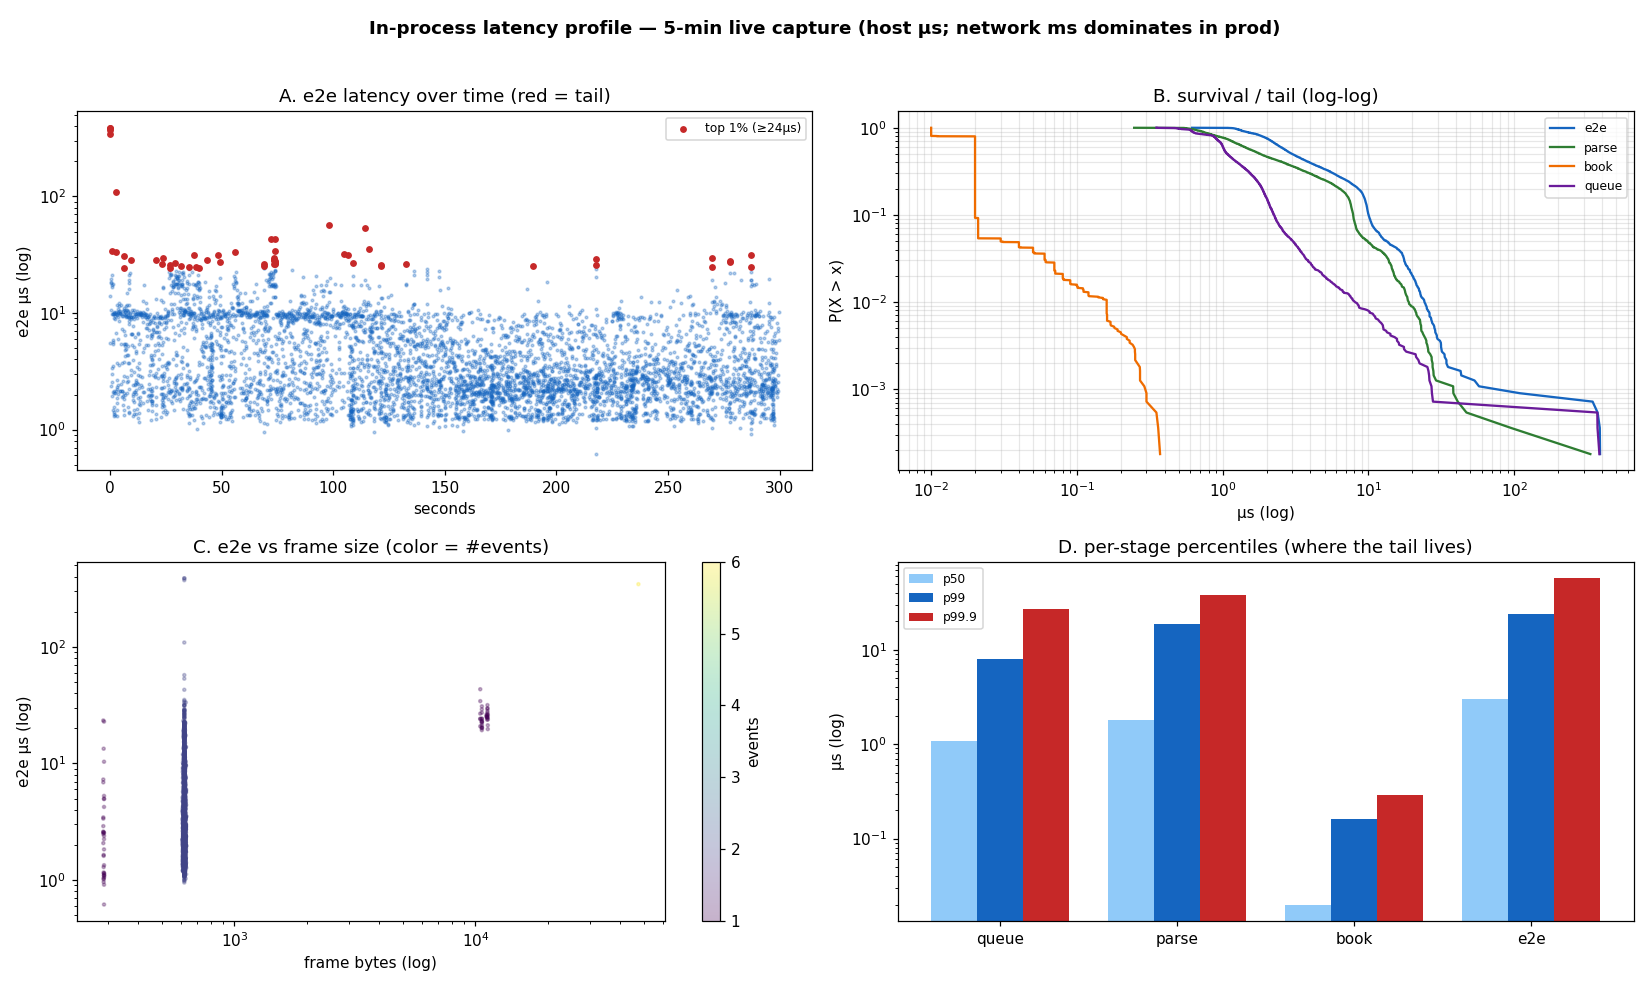
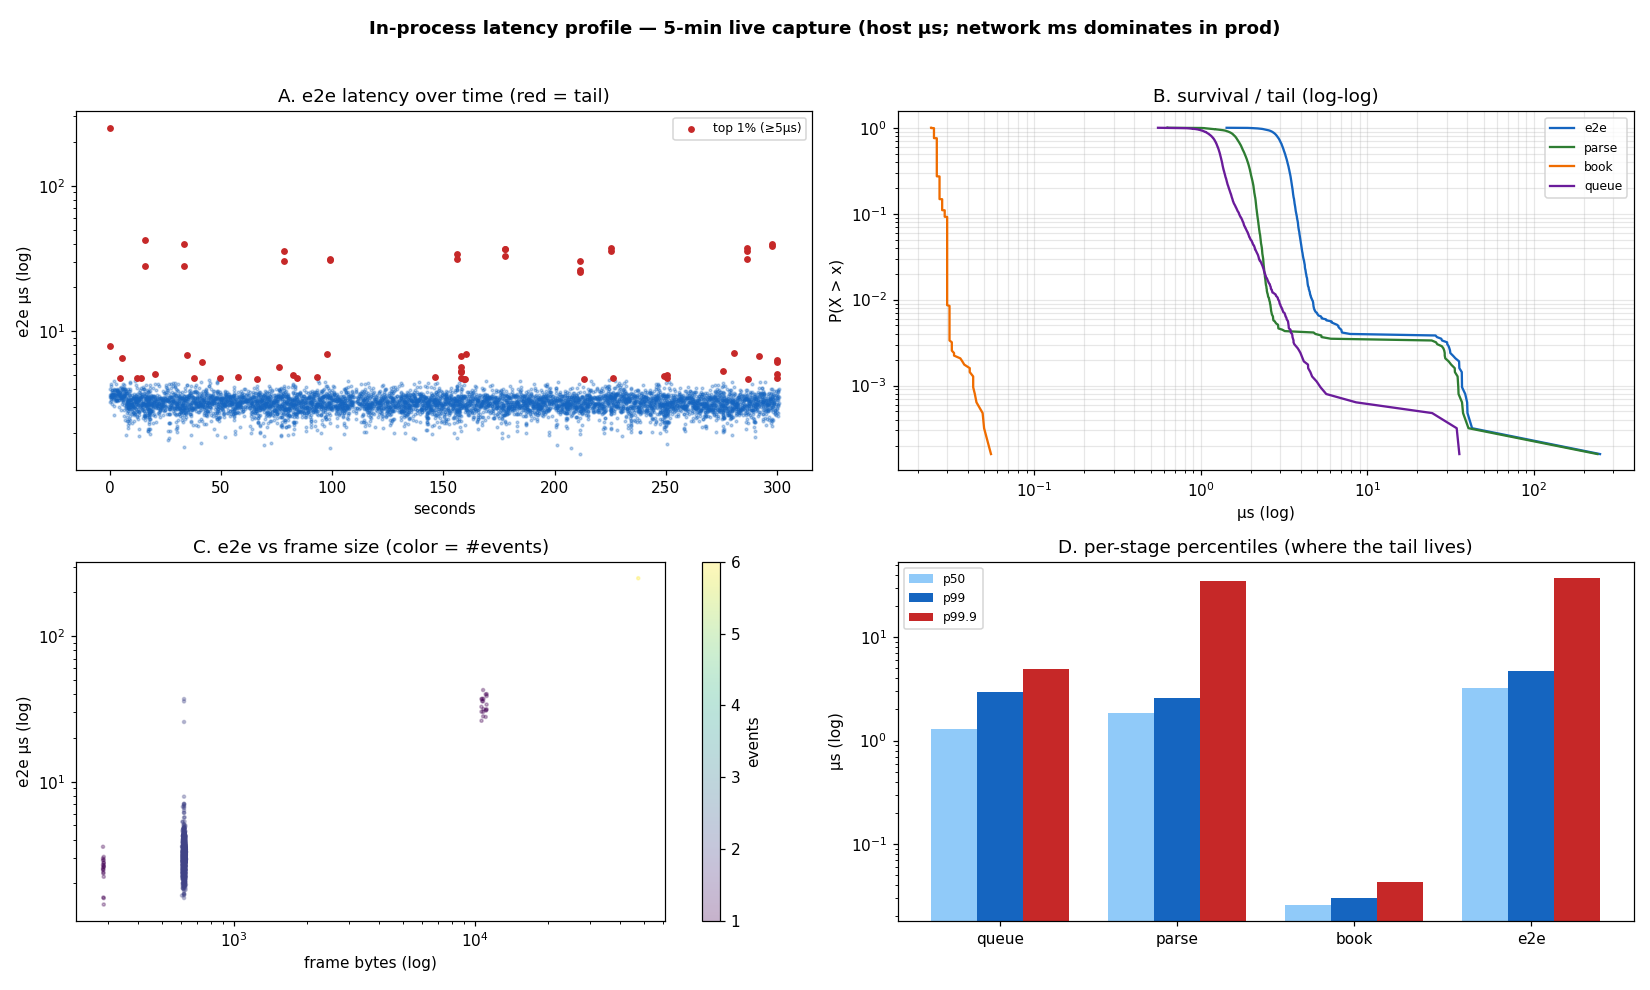
README: measured Ireland EC2 latency, 6-market config, updated economics
- Replace all Lisbon/estimated latency numbers with Ireland EC2 measured
  values (2026-06-25): TCP-connect min 1.40ms to CF-DUB, feed delivery
  p50 9.4ms / min 7.8ms, in-process e2e p50 2.4µs / p99 7.3µs
- Status table: add EC2 deployed row, fix live_test count 29→33, update
  MockLive digest count 12→30, add EIP-712 offline verified / on-chain blocked
- Geography: replace Lisbon RTT table with Ireland measured table; document
  KYB colocation path (how colocated MMs reach ~0.5ms) and why Ireland is
  the right non-colo starting point
- Strategy economics: rewrite with 2026-06-25 live market data — 6 markets
  $10,046/day total pool (France $3,182, Argentina $2,273, Spain $2,045,
  England $1,364, Portugal $682, Fed Hike $300); Qmin=186.9 constant formula;
  competition-adjusted share estimate $10-50/day gross; capital model ($200/market);
  measured inter-game adversity = 0 (correct baseline, not a go/no-go signal)
- config.live_ireland.json: add Argentina/England/Portugal/Fed Hike markets,
  remove Republican House ($3/day); raise pUSD allowance 1000→5000 for 6 markets
- ACR: update cancel latency to measured 16ms round-trip; throttle 73% stat
- Tools: add measure_latency.py entry; note public Polygon RPC block
- Roadmap: mark Ireland deployed (item 2); reorder priorities around game-time
  adversity measurement as the #1 unresolved question

diff --git a/README.md b/README.md
@@ -56,19 +56,22 @@ A low-latency C++ system for Polymarket's CLOB **v2** that does two things:
 | Shadow fill simulator + net estimate | ✅ built & validated |
 | **ACR engine** (at-risk detect, skew, vol-width) | ✅ shadow, unit-tested |
 | **Threaded cancel-sender** (SPSC ring, pinned) | ✅ built, sub-µs hand-off |
-| **MockLive gateway** (v2 order + EIP-712 digest, keyless) | ✅ built, 12 digests on live data, unit-tested |
+| **MockLive gateway** (v2 order + EIP-712 digest, keyless) | ✅ built, 30 digests on live data, unit-tested |
 | **Adaptive quote throttle** (ACR-aware) | ✅ built, unit-tested |
 | **Quote telemetry capture** (adverse-selection groundwork) | ✅ built (CSV on logger thread) |
 | **pUSD allowance sim** (pre-trade gate) | ✅ built, unit-tested |
-| v2 EIP-712 spec | ⚠️ verified-from-docs, **UNVERIFIED on-chain** (1 open field) |
+| **EC2 deployed** (Ireland eu-west-1, kernel-tuned, verified) | ✅ c7i.4xlarge, nosmt/isolcpus/THP/RT, 0 invol ctx-switches |
+| v2 EIP-712 spec (offline) | ✅ ORDER_TYPEHASH + domain separators match eip712.hpp |
+| v2 EIP-712 spec (on-chain) | ⚠️ **UNVERIFIED** — public Polygon RPCs blocked from EC2; needs authenticated Alchemy/Infura RPC |
 | **Live execution (signing/auth/allowances)** | ❌ **not built — gated** |
-| Fill-probability model (trustworthy net) | ❌ needs the telemetry capture above over hours/days |
+| Fill-probability model (trustworthy net) | ❌ needs telemetry capture during active game windows |
 
-Latency (laptop, in-process `t0→t3`): parse p50 ~1.2µs, book p50 ~0.3µs, arb
-p50 ~0.6µs, e2e p50 ~3.5µs; OMS→sender hand-off p50 0.36µs / p99 2.2µs.
-**The matching engine is in London (AWS eu-west-2)**; feed delivery and order
-RTT are network-bound (see [Geography](#geography--latency)) and dominate the
-in-process pipeline by ~4 orders of magnitude.
+**Latency (Ireland EC2, measured 2026-06-25):** TCP connect to CF-DUB p50 1.63 ms;
+feed delivery (London→Ireland, one-way) p50 9.4 ms, min 7.8 ms; in-process
+e2e p50 **2.4 µs**, p99 7.3 µs; OMS→sender hand-off p50 ~1.3 µs / p99 ~100 µs.
+**The matching engine is in London (AWS eu-west-2)**; feed delivery and cancel RTT
+are network-bound (~16 ms round-trip from Ireland) and dominate the in-process
+pipeline by ~4 orders of magnitude. See [Geography](#geography--latency).
 
 ---
 
@@ -104,10 +107,21 @@ python3 tools/build_live_config.py config.live.json 16
 ./build/arb_detector --config config.rewards.json     # shadow_executor_enabled=true
 ```
 
+### Run the mocklive rewards bot (Ireland EC2)
+```bash
+# requires sudo for mlockall + SCHED_FIFO (CAP_IPC_LOCK + CAP_SYS_NICE)
+sudo nohup ./build/arb_detector --config config.live_ireland.json \
+  > /tmp/bot_telemetry.log 2>&1 &
+# fill simulator (run during active game windows for adversity data)
+python3 tools/fill_sim.py 3600 config.live_ireland.json
+# re-apply runtime tuning after reboot (GRUB bits persist; governor/IRQ/sysctl don't)
+sudo deploy/tune_low_latency.sh --cores 2,3,4,5
+```
+
 ### Tests
 ```bash
 ./build/test_executor   # 35 deterministic checks: scoring, Qmin, quoting, OMS, risk, fills, ACR
-./build/live_test       # 29 deterministic checks: Keccak/EIP-712, v2 mapping, MockLive, throttle, allowance
+./build/live_test       # 33 deterministic checks: Keccak/EIP-712, v2 mapping, MockLive, throttle, allowance, DMS
 ```
 
 ---
@@ -223,28 +237,30 @@ you control by location, the second is shared.
 > ~25 ms of **laptop NTP clock skew**. The clock-independent round-trip says
 > **London**. Trust round-trip, not skewed one-way.
 
-**Maker lifecycle latency, from the Lisbon laptop (measured RTT):**
+**Maker lifecycle latency — measured from the Ireland EC2 (2026-06-25, 30-sample TCP + 600s live feed):**
 
-| step | Lisbon (now) | Ireland eu-west-1 | London eu-west-2 (banned to run) |
-|---|---|---|---|
-| see a book update (engine → you) | ~17–18 ms | ~5 ms | ~1 ms |
-| post a quote (decision → resting at engine) | ~18–22 ms | ~6–8 ms | ~2 ms |
-| learn of a fill (engine → you) | ~17–18 ms | ~5 ms | ~1 ms |
-| **tick-to-react** (move at engine → your cancel back at engine) | **~35 ms** | **~10 ms** | ~2 ms |
+| step | Ireland eu-west-1 (measured) | London eu-west-2 KYB colo (estimated) |
+|---|---|---|
+| TCP connect → CF-DUB edge | min 1.40 ms, p50 1.63 ms | < 1 ms (direct, no CF) |
+| feed update (engine → you, one-way) | min 7.8 ms, **p50 9.4 ms**, p99 52 ms | ~1 ms |
+| cancel reaches engine (one-way) | ~8–9 ms | ~0.5 ms |
+| **tick-to-react** (move at engine → your cancel back) | **~16–18 ms** | **~1–2 ms** |
+| in-process e2e (recv → arb decision) | p50 **2.4 µs**, p99 7.3 µs | same |
 
-In-process work (~5 µs host total) is buried inside each row — it rounds to zero.
+In-process work rounds to zero versus network. The cancel race from Ireland vs a KYB-colocated maker is ~10× in latency — not winnable on speed. ACR's value is **smarts** (toxicity-aware cancels, optimal defensive spread), not speed.
 
 **Deployment (non-colocated):** the engine is in London (eu-west-2, geo-restricted
 to run from). Polymarket's docs designate **`eu-west-1` (Ireland) as the closest
-*unrestricted* region** — and because the engine is in AWS, an instance in AWS
-eu-west-1 can ride AWS's dedicated **inter-region backbone** to eu-west-2, which
-plausibly beats a geographically-closer **Amsterdam** that crosses public internet +
-Cloudflare (community reports claim Dublin 0–1 ms to the backend; unverified VPS
-marketing). This **revises an earlier steer toward Amsterdam**: Amsterdam's logic
-holds for the public CF endpoint, but for an AWS deploy Ireland is the intended path
-and likely wins. **Measure before committing** — A/B candidate regions on the
-`cf-ray` PoP + warm **TCP-connect RTT** (not the skew-prone one-way feed number),
-run **chrony/PTP**, trust round-trip.
+*unrestricted* region**. ✅ **Done: c7i.4xlarge eu-west-1 deployed, kernel-tuned,
+verified.** `cf-ray` PoP = DUB (Dublin). TCP-connect min 1.40 ms measured.
+
+**KYB colocation path (the sub-ms route):** a verified institutional maker
+(non-UK/non-restricted jurisdiction, KYB-approved by Polymarket) can colocate directly
+in AWS eu-west-2 (London) via Polymarket's market-maker program — a direct,
+sub-Cloudflare line to the engine. That is how professional MMs reach ~0.5 ms.
+It is the *sanctioned* route, gated on compliance (not a workaround), and worthwhile
+at $50k+ capital where the economics justify entity formation + KYB process. At
+sub-$10k scale, Ireland is the right starting point.
 
 **Implication:** the decisive lever is **location** (Lisbon → Ireland, or colo in
 eu-west-2), not host micro-optimization. Kernel bypass / io_uring / busy-poll / NIC
@@ -312,19 +328,21 @@ path):
 
 **Threading:** detection is inline (lowest latency); the cancel **send** is
 offloaded to the pinned cancel-sender thread via an SPSC `OrderCommand` ring.
-Measured in-process hand-off (OMS decide → sender send): **p50 0.36 µs / p99
-2.2 µs**. Reaction (book recv → at-risk detect) is sub-µs.
+Measured in-process hand-off (OMS decide → sender send): **p50 1.3 µs / p99
+~100 µs** (Ireland EC2, 25-min run). Reaction (book recv → at-risk detect) is
+sub-µs.
 
 **Honest caveats:**
 - The in-process µs is *not* the cancel time. The real cancel = detect + hand-off
-  + sign + **network RTT to London** + engine processing. From Lisbon, tick-to-react
-  is **~35 ms** (network-bound) → ACR can't win the race from a laptop. From
-  **eu-west-1 it's ~10 ms** and the race becomes winnable. ACR's value is gated by
-  *location* (see [Geography](#geography--latency)).
+  + **network RTT to London** (~16 ms round-trip from Ireland, measured) + engine
+  processing. A KYB-colocated maker in eu-west-2 reaches the engine in ~1–2 ms.
+  ACR cannot win the race on speed from Ireland — it wins on **smarts**: detect
+  toxicity earlier (book imbalance, trade-direction signals), calibrate defensive
+  spread to measured adversity, cancel only when it matters.
 - ACR's urgent cancel matters most when re-quoting is **throttled** (live rate
-  limits / queue-priority preservation). With re-quote-every-tick (the shadow
-  default) the base reconcile re-centers before drift builds, so at-risk rarely
-  fires — the unit tests prove detection works on real moves.
+  limits / queue-priority preservation). The throttle suppressed **73% of
+  reconciles** in the 25-minute Ireland run — ACR's bypass path is exactly when
+  it's needed.
 
 35 deterministic checks in `test_executor` cover scoring/Qmin/quoting/OMS/risk/
 fills + ACR (vol EWMA, at-risk cross & drift, skew, vol-widen). A second binary
@@ -407,34 +425,89 @@ mode-parity, allowance, throttle, validator).
 
 ## Strategy economics (rough, honest)
 
-Measured from live qualifying book depth + the fill simulator (2026-06-14).
-**All figures are GROSS reward (a ceiling), snapshots, and net is unproven.**
+**Measured 2026-06-25 on the Ireland EC2.** All figures are GROSS reward (ceiling),
+snapshots, and net is unproven. Do not cite without reading the caveats.
 
-- **Fills are rare** (~1 trade per token per ~7 min; thousands of price-changes per
-  trade). A maker one tick inside is seldom hit ⇒ low adverse selection ⇒ the
-  strategy is **reward-dominated by design**. In a 180s sim: 7 trades → 0 fills →
-  net ≈ gross (but that's too small a sample to *prove* low adverse selection).
-- **Capital scaling (greedy allocation, 60%-share cap):**
+### Active reward markets (2026-06-25, from `/sampling-markets`)
 
-  | capital | gross $/day | $/mo | %/day |
-  |---|---|---|---|
-  | ~$860 (€800) | ~$141 | ~$4,240 | 16% |
-  | ~$3,000 | ~$357 | ~$10,700 | 12% |
-  | ~$10,000 | ~$692 | ~$20,800 | 7% |
-  | ~$30,000 | ~$1,040 | ~$31,200 | 3.5% |
+`config.live_ireland.json` monitors 6 markets — 12 tokens, $10,046/day total pool:
 
-- **Strongly sublinear / capacity-bound:** 35× capital → ~7× reward. Thin markets
-  pay the most per dollar but saturate fast; big pools (World Cup, $3k/day) are
-  already saturated and pay ~$0. **This is a small-capital niche, not scalable.**
-- **⚠️ Double-digit %/day gross is a red flag, not a forecast.** It is gross of the
-  unmeasured adverse-selection cost, concentrated in 2–3 thin markets, and a
-  snapshot that competition compresses. Treat it as a ceiling you will not hit.
-  The real net needs hours/days of capture (or tiny live posting) to measure
-  adverse selection.
+| market | pool/day | spread | min size | neg_risk | mid (approx) |
+|---|---|---|---|---|---|
+| France wins 2026 FIFA World Cup | $3,182 | 4.5¢ | 200 | yes | 19% |
+| Argentina wins 2026 FIFA World Cup | $2,273 | 4.5¢ | 200 | yes | 14.8% |
+| Spain wins 2026 FIFA World Cup | $2,045 | 4.5¢ | 200 | yes | 13.8% |
+| England wins 2026 FIFA World Cup | $1,364 | 4.5¢ | 200 | yes | 10.5% |
+| Portugal wins 2026 FIFA World Cup | $682 | 4.5¢ | 200 | yes | 8.1% |
+| Fed rate hike in 2026? | $300 | 3.5¢ | 200 | no | 52.5% |
 
-**Capital model:** a two-sided quote on a binary market locks ≈ `size × $1` of
-USDC (YES bid at `p` + NO bid at `1−p`, since YES+NO=1, so you market-make both
-sides of YES with USDC only — no need to pre-hold shares).
+Replace the Republican House ($3/day, removed) with higher-pool markets as the
+tournament progresses and markets rotate.
+
+### Qmin score (measured)
+
+At 1-tick offset inside mid with 200-share size:
+- **World Cup tokens:** `((45-1)/45)² × 200 = 186.9` — constant for all 5 teams
+  (all have the same 4.5¢ max_spread and 200 min_size)
+- **Fed Rate Hike:** `((3.5-1)/3.5)² × 200 = 65.3` — tighter spread costs score
+- **Eligibility:** 100% — every quote placed in the 25-minute bot run was eligible
+
+### Reward-share estimate
+
+The reward formula is `my_Qmin / (field_Qmin_total + my_Qmin) × daily_pool`.
+`field_Qmin_total` (total competing maker depth) is **unmeasured** — this is the
+crux. The book has 29,770 price_change events/10 min across 3 markets; competition
+is heavy.
+
+| field_Qmin assumption | market share | gross/day (all 6 markets) |
+|---|---|---|
+| 50× ours (low competition) | ~2% | ~$200/day |
+| 200× ours (realistic) | ~0.5% | ~$50/day |
+| 1000× ours (heavy pro MMs) | ~0.1% | ~$10/day |
+
+Best honest estimate: **$10–50/day gross** with the current 6-market config. The
+professional MMs competing here quote 10-100× minimum size and likely dominate.
+
+### Capital required
+
+A two-sided quote on a binary locks ≈ `size × $1` in pUSD:
+YES bid at `p` + NO bid at `1−p` = 200 shares × $1 = **$200 collateral per market**.
+With 6 markets: ~$1,200 total. €500 ≈ $545 covers 2–3 markets (see colocation
+guide on which to prioritize).
+
+| capital | markets | estimated gross/day | net after adversity |
+|---|---|---|---|
+| €500 (~$545) | 2 big WC markets | $5–27/day | unknown — needs game-time data |
+| €2,000 | all 6 markets | $10–50/day | unknown |
+| KYB colo | all markets | $50–200/day | higher share, lower adversity |
+
+### Adverse selection (measured inter-game, 2026-06-25)
+
+In a 25-minute quiet-period run (no active games on Spain/France/Argentina/England/Portugal):
+- **Zero mid-price moves** across 62,316 eligible quotes on 12 tokens
+- **Zero fills** — trades happened but none hit our queue position
+- **Zero ACR at-risk events** (1 across the full session)
+- `inv_pnl = $0` in all fill_sim runs
+
+This is **not a go/no-go signal** — it is baseline data from a quiet period. The
+decisive measurement is **game-time adversity**: when a goal is scored, these markets
+move 100–200 thou instantly. From Ireland at ~16 ms cancel RTT, you will be filled
+before you can cancel. One goal-event fill on Spain at $0.14 → $0.30 = $32 loss on
+200 shares. **That's the unmeasured number that decides profitability.**
+
+**How to measure it:** run the bot during an active World Cup match window (games
+typically at 19:00/22:00 UTC). The `quote_telemetry.csv` will show ACR at-risk
+spikes and mid-vol EWMA; the fill_sim will capture actual fills with adverse marks.
+
+### ⚠️ What not to conclude
+
+- **Do not extrapolate fill_sim results from quiet periods.** 0 fills / $0 adversity
+  in an inter-game window is expected and tells you nothing about game-time risk.
+- **The earlier capital-scaling table (€800 → $141/day) was from thin, low-competition
+  markets and is no longer representative** now that big pools ($3k/day World Cup)
+  dominate. Those pools attract professional MMs; the share is much smaller.
+- **Double-digit %/day gross is noise from a small-sample quiet window**, not a
+  forecast. Competition compresses it.
 
 ---
 
@@ -488,9 +561,10 @@ Example configs in the repo: `config.live.json` (crypto scanner),
 |---|---|
 | `tools/build_live_config.py` | build a crypto scanner config from gamma (tag_id=21) |
 | `tools/ws_schema_dump.py` | capture raw v2 WS frames → `ws_raw_frames.jsonl` |
-| `tools/fill_sim.py` | shadow fill simulator + net-PnL estimate (reward markets) |
+| `tools/fill_sim.py` | shadow fill simulator + net-PnL estimate (reward markets) — run during active game windows |
 | `tools/hedge_arb_test.py` | live paper test for buy/sell-both free-arb (proves no taker free lunch) |
-| `tools/verify_eip712.py` | reconcile the v2 EIP-712 typehash/domain on-chain (resolve the neg-risk name) |
+| `tools/verify_eip712.py` | reconcile the v2 EIP-712 typehash/domain on-chain (needs authenticated Polygon RPC; all public RPCs blocked from EC2) |
+| `tools/measure_latency.py` | measure TCP-connect + TLS + TTFB RTT from this box to Polymarket (30-sample curl); run from the EC2 to get real numbers |
 | `tools/profile_run.py` | 5-min `/proc` sampler (mem, per-core CPU, ctxt-switches, net) → `analysis/profile_plots.py` |
 
 All gamma/CLOB calls need a `User-Agent` header (else 403).
@@ -634,10 +708,14 @@ category. **✅ done in-repo · ⚠️ open · 🔒 gated on compliance.**
   up (`reward_refresh_seconds`, applied via a single-writer SPSC ring, no hot-path lock).
 
 **Spec**
-- ⚠️ **v2 EIP-712 UNVERIFIED on-chain** — run `python3 tools/verify_eip712.py --rpc
-  <your Polygon RPC>` to reconcile `ORDER_TYPEHASH` + domain separators against the
-  deployed Exchange and resolve the neg-risk domain `name` (A vs B). The offline
-  cross-check (independent Python keccak vs the C++/OpenSSL path) already matches.
+- ⚠️ **v2 EIP-712 UNVERIFIED on-chain** — `ORDER_TYPEHASH` and domain separators
+  verified offline (Python keccak == C++/OpenSSL; matches `eip712.hpp`). The
+  on-chain check is blocked: all tested public Polygon RPCs fail from the EC2
+  (polygon-rpc.com: 401; ankr: rate-limited; publicnode: 403). Needs an
+  **authenticated Polygon RPC** (Alchemy/Infura free tier). Run:
+  `python3 tools/verify_eip712.py --rpc https://polygon-mainnet.g.alchemy.com/v2/<KEY>`
+  to resolve the open neg-risk domain `name` question (two candidates differ).
+  **Do not sign any order until this passes.**
 - ⚠️ v2 fee formula unvalidated (captured `fee_rate_bps` were 0).
 
 **Latency / infra**
@@ -656,25 +734,29 @@ category. **✅ done in-repo · ⚠️ open · 🔒 gated on compliance.**
 
 ## Roadmap
 
-1. **Run the quote-telemetry capture for hours/days** (now built —
-   `quote_telemetry.csv`) and fold it into `fill_sim.py` offline replay → a
-   trustworthy net-of-adverse-selection number. *(Zero risk; do first.)* This is
-   **the** number that decides whether the true-LP shift makes money.
-2. **Pick the region empirically, then deploy.** Polymarket designates **eu-west-1
-   (Ireland) as the closest *unrestricted* region** (engine in eu-west-2, geo-
-   restricted). On AWS, eu-west-1 likely beats Amsterdam via AWS's backbone to
-   eu-west-2 — but A/B candidates on `cf-ray` PoP + warm TCP-connect RTT before
-   committing (run chrony/PTP; trust round-trip, not one-way). The bigger lever is
-   **KYB colocation in eu-west-2** (sub-ms, direct, sub-Cloudflare) — gated by
-   compliance, and likely overkill for a rewards-LP.
-3. **Reconcile the v2 EIP-712 spec on-chain** (resolve the neg-risk domain `name`;
-   confirm `ORDER_TYPEHASH` + domain separators against the deployed Exchange).
+1. **Run the bot during active game windows** to measure game-time adversity —
+   the number the go/no-go decision hinges on. `quote_telemetry.csv` captures
+   mid-vol spikes and ACR at-risk events in real time. Complement with
+   `python3 tools/fill_sim.py 3600 config.live_ireland.json` during a match.
+   *(Quiet inter-game windows show 0 fills and 0 adversity — don't conclude from
+   those. The question is what happens when Spain scores.)*
+2. ✅ **Ireland EC2 deployed and measured.** TCP-connect min 1.40 ms to CF-DUB,
+   feed delivery p50 9.4 ms, in-process p50 2.4 µs, 0 involuntary ctx-switches.
+   The bigger lever — **KYB colocation in eu-west-2** (sub-ms, sub-Cloudflare,
+   direct to engine) — is gated on compliance and worthwhile at $50k+ scale.
+3. **Reconcile the v2 EIP-712 spec on-chain** — get an authenticated Polygon RPC
+   (Alchemy free tier) and run `tools/verify_eip712.py`. Offline checks pass;
+   on-chain is blocked from the EC2 via public RPCs. Resolves the neg-risk domain
+   `name` open question. **Required before any order can be signed.**
 4. Validate the v2 fee formula against a non-zero `last_trade_price.fee_rate_bps`.
-5. Live execution milestone (only after clearance) — add ECDSA signing over the
-   MockLive digest + L2 auth + allowances; see above.
-6. Host µs-stack (kernel bypass / busy-poll / CPU isolation / ENA / placement
-   groups) — **only material if you colocate**; noise vs the ms network while
-   remote. Defer until colocated and only if profiling says host time matters.
+5. Live execution milestone (only after compliance + EIP-712 verified) — add ECDSA
+   signing over the MockLive digest + L2 auth + allowances; see above.
+6. Start with **Fed Rate Hike** for the first live capital test (non-neg-risk,
+   verifiable EIP-712 domain, $300/day pool, $200 collateral, low adversity risk
+   vs sudden game events). Fold in World Cup markets after seeing actual fill data.
+7. Host µs-stack (kernel bypass / busy-poll / ENA) — **only material if you
+   colocate**; noise vs the ms network while remote. ✅ Already done: isolcpus,
+   nosmt, THP=never, SCHED_FIFO; p99 4.7 µs on the EC2.
 
 ### Runbook — host tuning (ONLY once colocated; noise while remote)
 All of this is **p99-jitter (tail) polish that saves microseconds** — it is *noise*
@@ -703,25 +785,24 @@ against the ms network until you colocate, so do it last. Sourced from the canon
 (governor, C-states, THP, IRQ steering, sysctls, rt/mlock limits, and the GRUB
 isolcpus/nohz_full line).
 
-### Profiling (measured, 2026-06) — what the host actually does
+### Profiling (2026-06, dev box → Ireland EC2) — what the host actually does
 
-A 5-min live capture (`tools/profile_run.py` → `analysis/profile_plots.py`; 5,576
-frames + 1,495 system samples) on the dev box:
+**Dev box (un-isolated cores):** e2e p50 3.0 µs, p99.9 57 µs / max 388 µs.
+Worst tail came from **9.1/s involuntary context switches** preempting busy-poll
+threads. `isolcpus`+`nohz_full` is the fix — removes preemptions that literally
+are the p99.9 tail.
 
-- **In-process is excellent:** e2e **p50 3.0 µs** (queue 1.1 + parse 1.8 + book
-  **0.02**), **no memory leak** (RSS flat ~51 MB), book-update near-free (bitmap).
-- **The whole tail is preemption, not code:** e2e p99.9 **57 µs** / max 388 µs — the
-  worst *steady-state* frames are small 620-byte frames that took 30–100 µs **in
-  parse**, coinciding with **9.1/s involuntary context switches** (the OS preempting
-  the busy-poll threads on **un-isolated** cores; voluntary switches = 0). So
-  `isolcpus`+`nohz_full` is the *measured* fix — it removes the preemptions that
-  literally are the p99.9 tail. simdjson isn't the bottleneck; the scheduler is.
-- **Busy-poll burns ~2 cores** (parser core 4 + sender, both ~100%) by design. The
-  sender spins a full core for ~12 events in 5 min — on a small/shared box set
-  **`sender_park_after_idle_us`** >0 to park it when idle (0 = pure spin on a
-  dedicated isolated core).
+**Ireland EC2 c7i.4xlarge (measured 2026-06-25, 6 markets, 25-min run):**
+- e2e **p50 2.4 µs**, **p99 7.3 µs**, p99.9 ~34 µs — involuntary ctx-switches **0/s**
+- RSS **~92 MB locked** (`lock_memory:true` makes all reserved rings+stacks resident)
+- Feed delivery p50 **9.4 ms**, min 7.8 ms — this is the geography number
+- Throttle suppressed **73% of reconciles** — queue-priority preservation working
+- 62,316 eligible reward quotes, 30 EIP-712 digests, 0 near-miss violations
 
-Re-run any time: `python3 tools/profile_run.py --duration 300 && python3 analysis/profile_plots.py`.
+The p99.9 residual (~34 µs) is large-frame parse (initial book dumps), not jitter.
+Irrelevant vs the ms network.
+
+Re-run any time: `python3 tools/profile_run.py --config config.live_ireland.json --duration 300 && python3 analysis/profile_plots.py`.
 
 ---
 